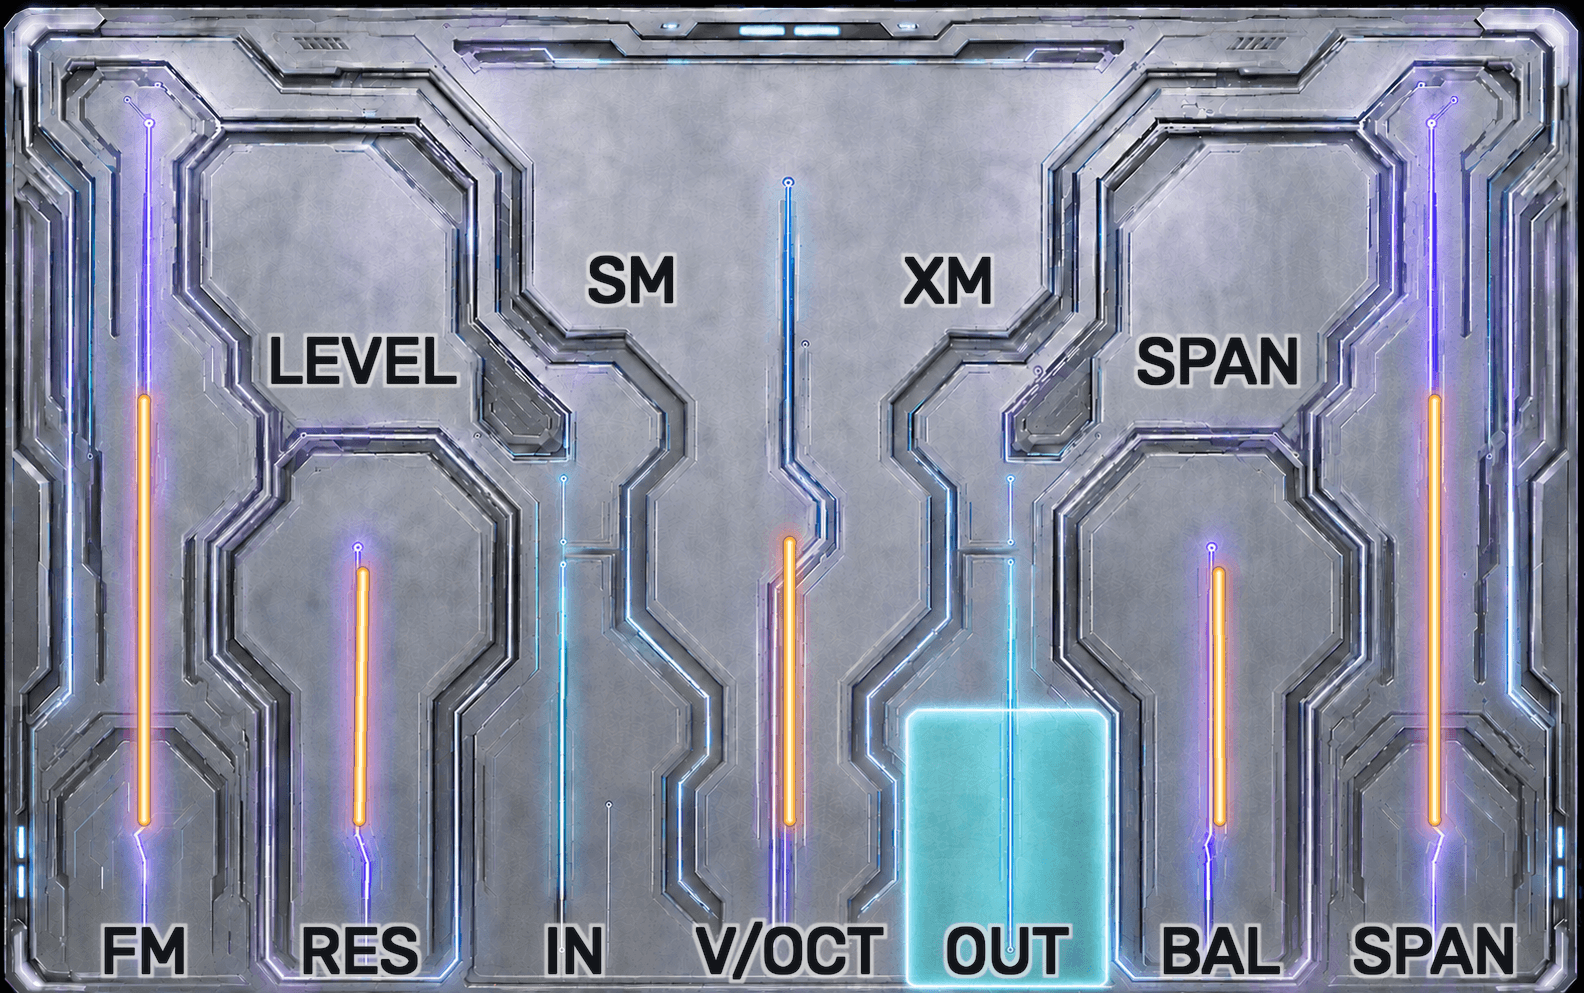
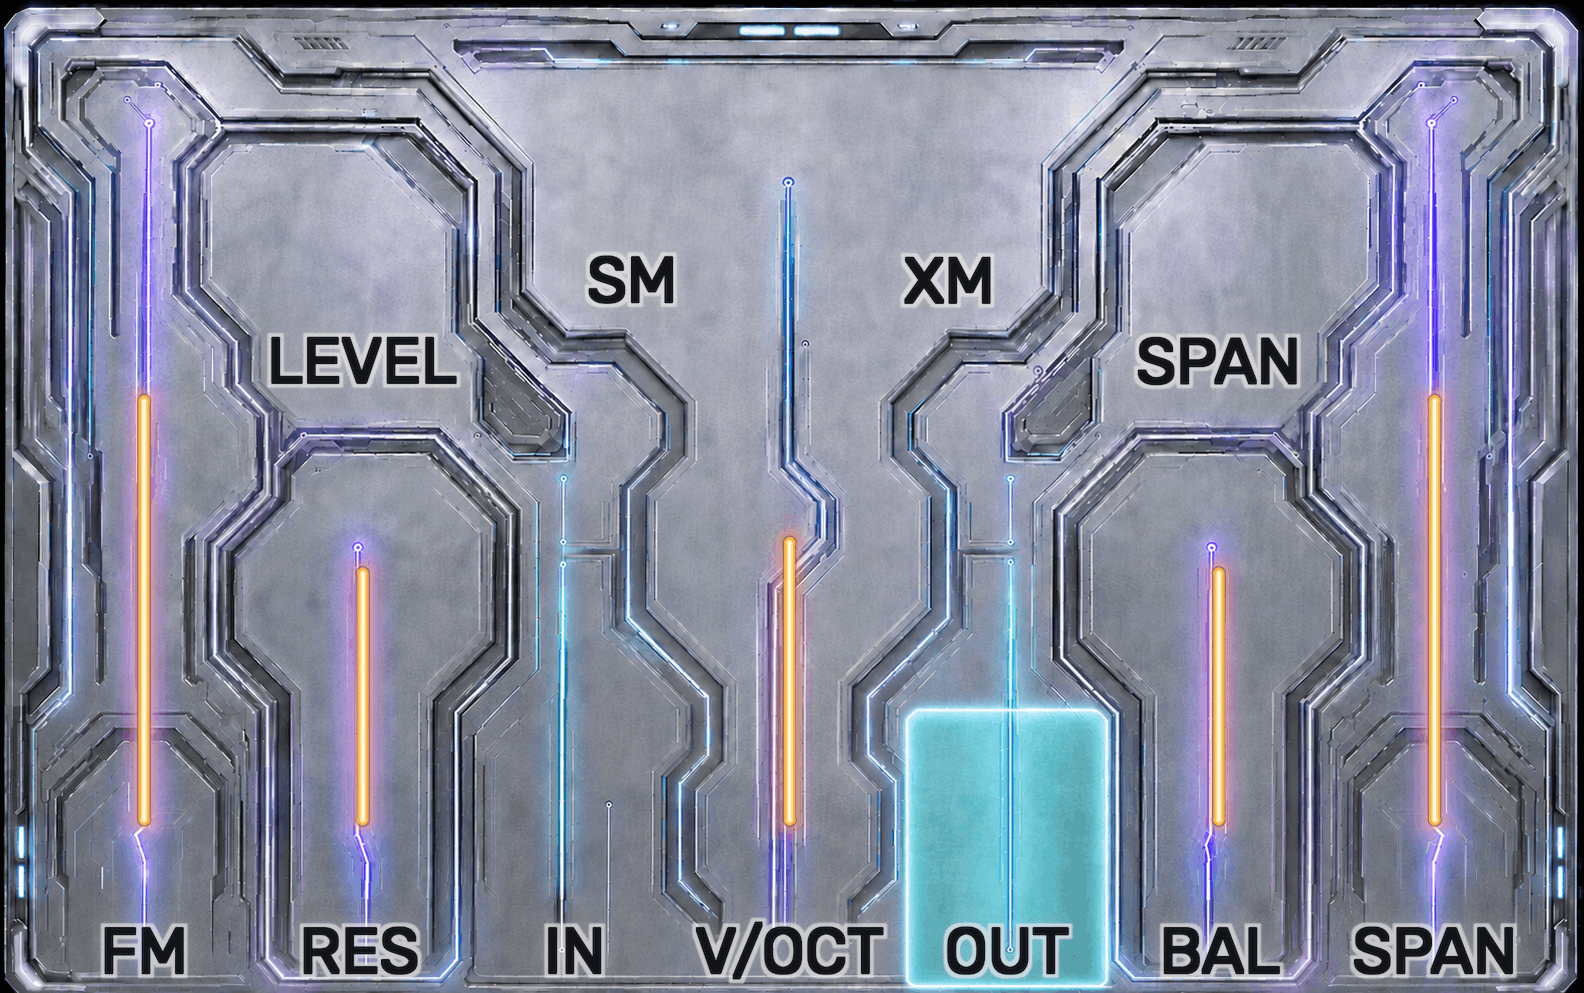
Asset alignment fixed with svg / raster re-gen

Changed region(s): [[0.2165, 0.5932, 0.2475, 0.8429], [0.7424, 0.6556, 0.7734, 0.8429]]

diff --git a/tests/panel_svg_utils_spec.cpp b/tests/panel_svg_utils_spec.cpp
@@ -521,9 +521,15 @@ TestResult testPlasmaConduitAnchorConvention() {
           && path.commands[0].type == panel_svg::SvgPathCommand::MoveTo
           && path.commands[1].type == panel_svg::SvgPathCommand::LineTo;
       });
+    const bool bifurxConduitsVertical = std::string(panel.path) != "res/bifurx.panel.svg"
+      || std::all_of(paths.begin(), paths.end(), [](const panel_svg::SvgPathMatch& path) {
+        return path.commands.size() == 2u
+          && std::fabs(path.commands[0].p1.x - path.commands[1].p1.x) <= 1e-6f;
+      });
     const bool panelPass = pathsOk
       && paths.size() == panel.expectedPaths
       && straightPaths
+      && bifurxConduitsVertical
       && runtimeHidden;
     if (!panelPass && firstFailure.empty()) {
       firstFailure = panel.path;

diff --git a/src/PanelAnchorAtlas.cpp b/src/PanelAnchorAtlas.cpp
@@ -25,8 +25,8 @@ struct AnchorAtlasRecord { uint16_t svgIndex; const char* id; uint32_t flags; fl
 
 static const SvgAtlasRecord kSvgAtlas[] = {
 	{"res/bifurx.labels.svg", 4379ull, 0x93d2026cae0c16ccull, 0.00999999986f},
-	{"res/bifurx.panel.svg", 19818ull, 0xe1ce2ae3ee258b31ull, 0.00999999986f},
-	{"res/bifurx.svg", 31523ull, 0x3031706a38ebb01bull, 0.00999999986f},
+	{"res/bifurx.panel.svg", 19787ull, 0x0df107c107e6acdfull, 0.00999999986f},
+	{"res/bifurx.svg", 31492ull, 0xa538a5336e20ce7dull, 0.00999999986f},
 	{"res/bifurx.theme-text.svg", 30859ull, 0x15d308298b29bd5bull, 0.00999999986f},
 	{"res/blank.svg", 21648ull, 0x5d682cc9d0d5089full, 0.01f},
 	{"res/bulkhead.svg", 16822ull, 0xb5956bc612dc50a9ull, 0.00999999988f},

diff --git a/src/BifurxGL.cpp b/src/BifurxGL.cpp
@@ -927,13 +927,13 @@ struct BifurxSpectrumGLWidget final : widget::OpenGlWidget, BifurxSpectrumBase {
 		appendGuideLayer(235.f / 255.f, 204.f / 255.f, 128.f / 255.f, 244.f / 255.f, 0.85f);
 
 		for (GlVertex& point : expectedCurveLineVertices) {
-			point.r = 255.f / 255.f;
+			point.r = 1.f;
 			point.g = 242.f / 255.f;
 			point.b = 202.f / 255.f;
 			point.a = 250.f / 255.f;
 		}
 		appendStrokePolyline(expectedCurveLineVertices, 0.38f, &expectedCurveStrokeVertices);
-		appendGuideLayer(255.f / 255.f, 242.f / 255.f, 202.f / 255.f, 250.f / 255.f, 0.36f);
+		appendGuideLayer(1.f, 242.f / 255.f, 202.f / 255.f, 250.f / 255.f, 0.36f);
 
 		glEnable(GL_BLEND);
 		glBlendFunc(GL_SRC_ALPHA, GL_ONE_MINUS_SRC_ALPHA);

diff --git a/tests/bifurx_runtime_spec.cpp b/tests/bifurx_runtime_spec.cpp
@@ -11,6 +11,10 @@
 // Provide the plugin global expected by module source.
 Plugin* pluginInstance = nullptr;
 
+std::string leviathanPluginUserRootPath() {
+	return system::join(system::getTempDirectory(), "Leviathan");
+}
+
 // Bifurx includes the shared DragonKing debug setting from plugin.cpp in the
 // plugin build. The runtime spec includes Bifurx.cpp directly, so keep this
 // test self-contained instead of linking the full plugin translation unit.
